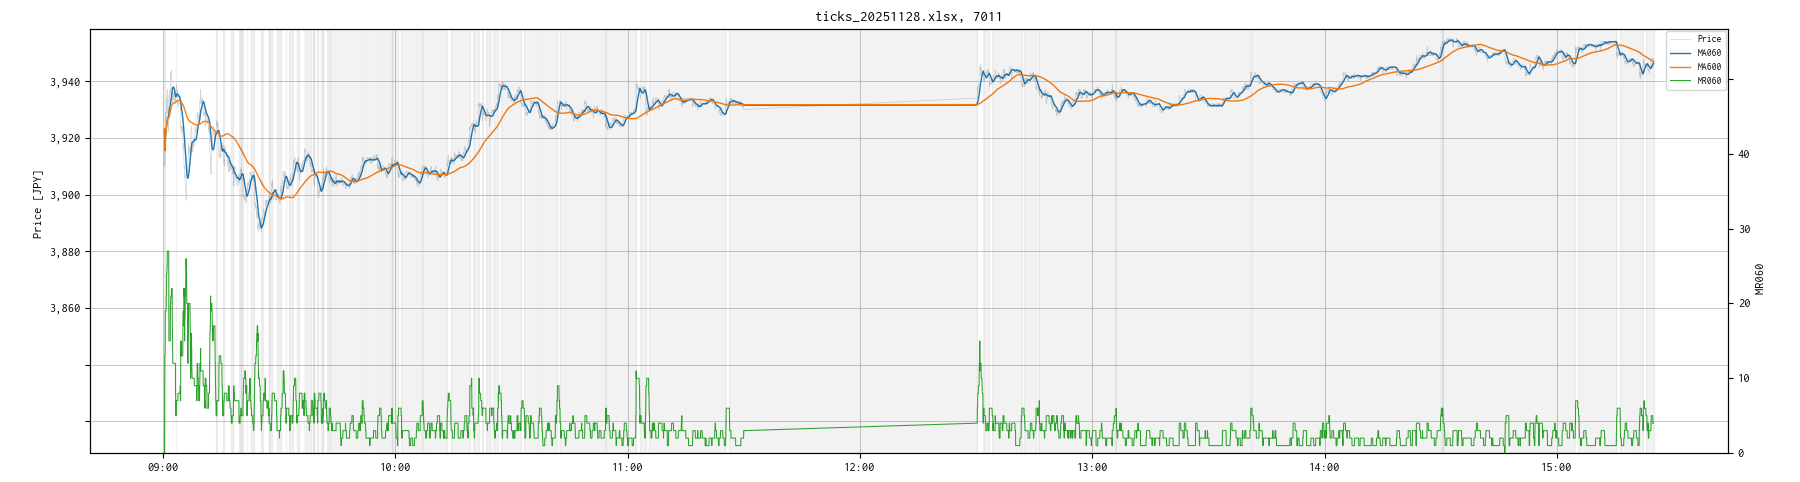
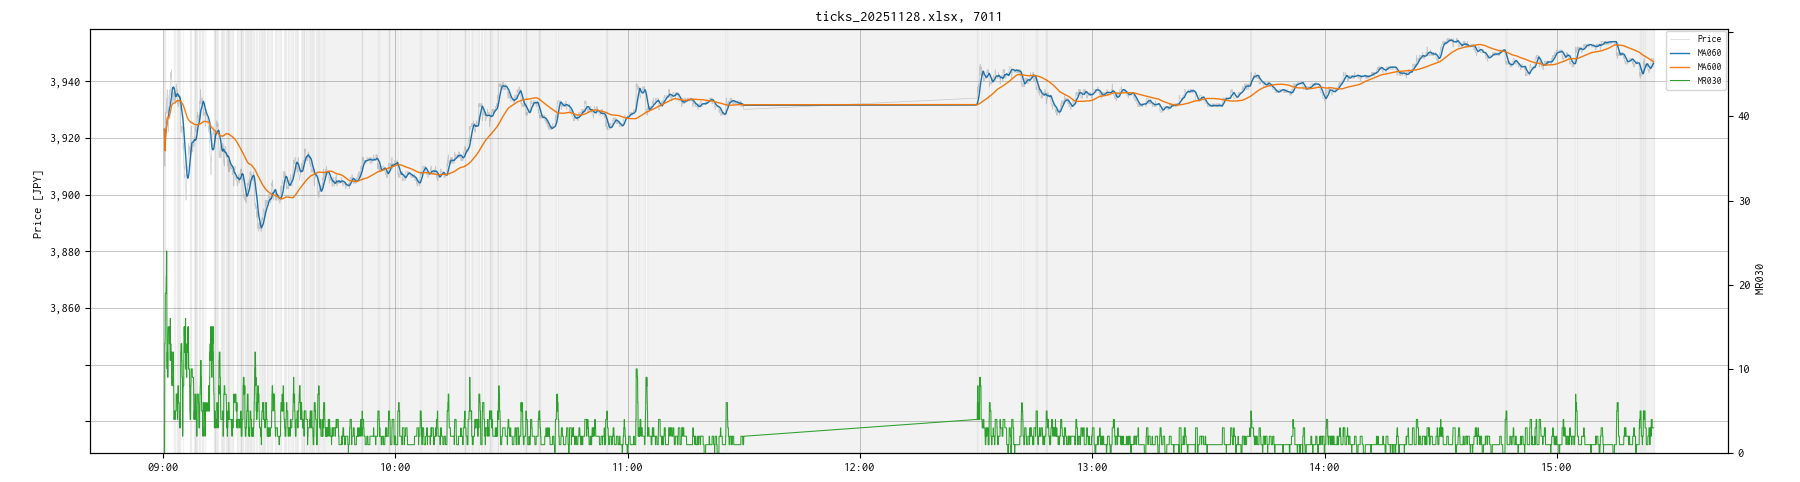
update

Changed region(s): [[0.0933, 0.529, 0.9333, 0.9336]]

diff --git a/modules/feature_provider.py b/modules/feature_provider.py
@@ -16,10 +16,11 @@ class FeatureProvider:
         self.PERIOD_MAD_1 = 60
         self.PERIOD_MAD_2 = 600
         # 移動範囲用（定数）
-        self.PERIOD_MR = 60
-        self.THRESHOLD_MR = 6
+        self.PERIOD_MR = 30
+        self.THRESHOLD_MR = 5
         # ロスカット
-        self.LOSSCUT = -5
+        self.LOSSCUT_1 = 0
+        self.LOSSCUT_2 = -5
         # ---------------------------------------------------------------------
         # 株価キューの最大値
         self.N_DEQUE_PRICE = self.PERIOD_MAD_2
@@ -156,9 +157,9 @@ class FeatureProvider:
 
     def doesLossCut(self) -> int:
         profit = self.get_profit()
-        if -self.LOSSCUT < self.profit_max and profit < 0:
+        if -self.LOSSCUT_2 < self.profit_max and profit < self.LOSSCUT_1:
             return 1
-        elif profit < self.LOSSCUT:
+        elif profit < self.LOSSCUT_2:
             return 1
         else:
             return 0
